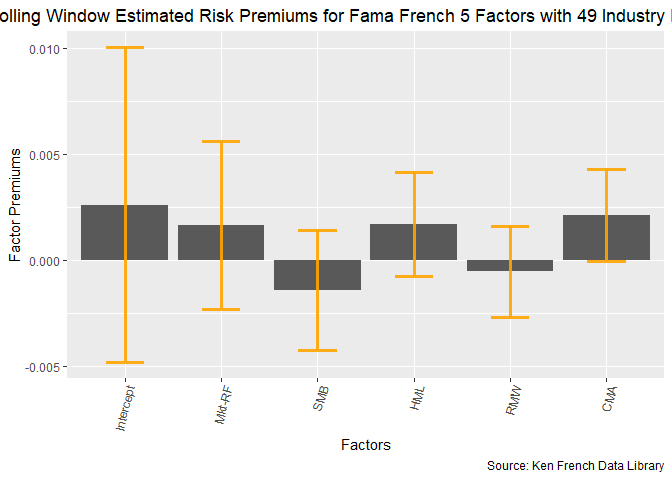
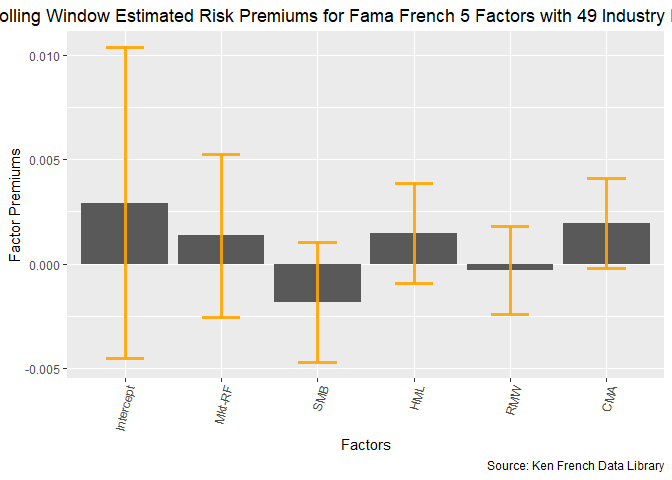
Slight Modlification of dates for beta estimation and save the lambda estimations

diff --git a/Sector.md b/Sector.md
@@ -38,3 +38,6 @@ Here, I would apply the 5-year rolling window to estimate the betas and use them
 ![](Sector_files/figure-markdown_github/unnamed-chunk-8-1.png)![](Sector_files/figure-markdown_github/unnamed-chunk-8-2.png)
 
 Even with Rolling Windows, the Cook's Distance estimation shows that REITs does not seem to pull the factor premium estimation of the second pass Fama Macbeth.
+
+Save the rolling-window lambda estimations
+==========================================
